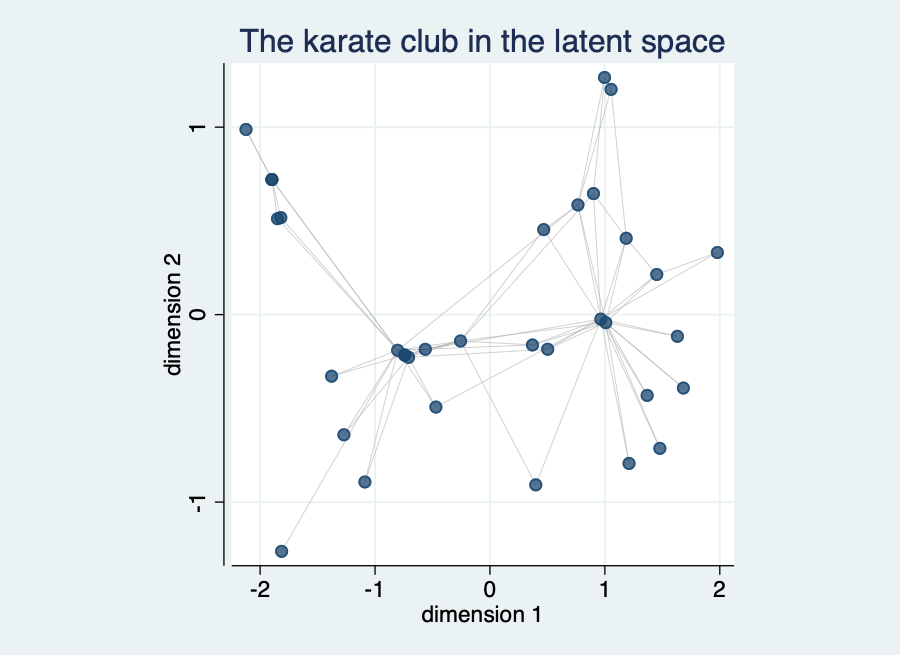
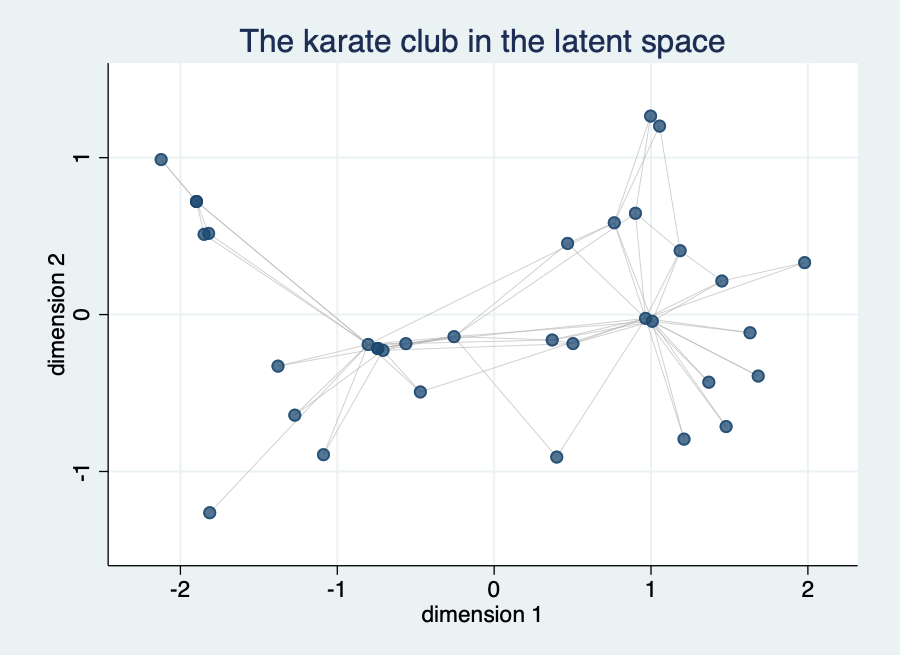
Website: nwlsm tutorials 1 and 2 regenerated with equal-scale plots (round circles); text mentions equal axes and noequal

diff --git a/website/nwlsm/tutorial-1-first-lsm/index.md b/website/nwlsm/tutorial-1-first-lsm/index.md
@@ -115,7 +115,7 @@ A table of coordinates is hard to read. `nwlsmplot` draws the same positions as 
 
 ![The karate club in the latent space: actors are points, ties are lines](karate_positions.png)
 
-Actors that are tied sit close together, and actors without ties in common lie far apart. Two actors, one in the middle left and one in the middle right, hold most of the ties, and the others lie around them. A few actors have exactly the same position in the table above because they have the same ties; they are drawn on top of each other. Read the map by distances only: turning or flipping it would change the axes and nothing else. The option `clusters` colours the actors by latent cluster once the model has been fitted with `clusters()` ([tutorial 2](../tutorial-2-bic-clusters/)).
+Actors that are tied sit close together, and actors without ties in common lie far apart. Two actors, one in the middle left and one in the middle right, hold most of the ties, and the others lie around them. A few actors have exactly the same position in the table above because they have the same ties; they are drawn on top of each other. Read the map by distances only: turning or flipping it would change the axes and nothing else. Both axes have the same scale (one unit is equally long horizontally and vertically), so distances can be read directly from the picture; `noequal` switches this off and lets each axis span its own range. The option `clusters` colours the actors by latent cluster once the model has been fitted with `clusters()` ([tutorial 2](../tutorial-2-bic-clusters/)).
 
 The map shows one point per actor, but each position is an estimate. The option `draws(#)` adds the uncertainty: it draws that many of the kept posterior draws of all positions, aligned to the minimum Kullback-Leibler positions, as small faint dots in the colour of the actors under the map:
 
@@ -126,7 +126,7 @@ The map shows one point per actor, but each position is an estimate. The option 
 
 ![The karate club with a faint cloud of 100 posterior draws of the positions behind the estimated positions](karate_draws.png)
 
-The estimated positions (the dark points, with the ties as thin lines) now sit in a small region in the middle of a much wider, faint cloud that reaches about 5 units from the centre in every direction. The cloud is the union of 100 draws for each of the 34 actors, so it shows how far a single actor could lie in the posterior. It is wide compared with the distances between the estimated positions: the map of the minimum Kullback-Leibler positions is a tidy summary, but the data do not pin down the position of an individual actor, and the finer arrangement within the groups should not be over-read. The draws stay in memory until the next fit; if you fit another model first, `draws()` stops with an error.
+The estimated positions (the dark points, with the ties as thin lines) now sit in a small region in the middle of a much wider, faint cloud that reaches about 5 units from the centre in every direction (both axes have the same scale, so the cloud is drawn undistorted). The cloud is the union of 100 draws for each of the 34 actors, so it shows how far a single actor could lie in the posterior. It is wide compared with the distances between the estimated positions: the map of the minimum Kullback-Leibler positions is a tidy summary, but the data do not pin down the position of an individual actor, and the finer arrangement within the groups should not be over-read. The draws stay in memory until the next fit; if you fit another model first, `draws()` stops with an error.
 
 ## Goodness of fit
 

diff --git a/website/nwlsm/tutorial-2-bic-clusters/index.md b/website/nwlsm/tutorial-2-bic-clusters/index.md
@@ -113,7 +113,7 @@ To see the clusters, draw the monks in the latent space with `nwlsmplot`; the op
 
 ![Sampson's monks in the latent space, coloured by cluster](monks_clusters.png)
 
-The three groups lie apart: seven monks in the lower left, seven on the right and a small group of four at the top. Ties run mostly inside each group, and the few ties between groups run through the space between them. The small group at the top is the faction of the outcasts, and one of its four monks lies between it and the rest. Only distances count on this map: the axes can be turned or flipped without changing the model.
+The three groups lie apart: seven monks in the lower left, seven on the right and a small group of four at the top. Ties run mostly inside each group, and the few ties between groups run through the space between them. The small group at the top is the faction of the outcasts, and one of its four monks lies between it and the rest. Only distances count on this map: the axes can be turned or flipped without changing the model. Both axes have the same scale, so distances can be read from the picture (`noequal` switches this off).
 
 The network is directed, so the ties are drawn as arrows from the sender to the receiver; this is the default for a directed network, and `noarrows` draws plain lines instead.
 
@@ -125,7 +125,7 @@ Three more options show what the clusters model estimates. `clustermeans` marks 
 
 ![Sampson's monks with the cluster circles and the certainty of the membership](monks_circles.png)
 
-Each cluster is surrounded by a dashed ellipse in its colour (the circles look like ellipses because the two axes have different scales). The three circles are of similar size, the one of the top cluster (the outcasts) the largest. Most monks are drawn in full colour; a few at the edge of their group, for example John Bosco and Hugh in the lower left cluster and Amand next to the outcasts, are paler, which agrees with the three monks below 0.8 in the table of probabilities that follows. The cluster means themselves are hard to see on this picture, because they lie at the centre of the groups under the monks.
+Each cluster is surrounded by a dashed circle in its colour, with a small cross at the cluster mean at its centre. Because both axes have the same scale the circles are round, and their radii can be compared with the distances between the monks. The three circles are of similar size, and the monks of each cluster lie mostly inside their own circle, the two monks Amand and Hugh near its edge. Most monks are drawn in full colour; a few at the edge of their group, for example John Bosco and Hugh in the lower left cluster and Amand next to the outcasts, are paler, which agrees with the three monks below 0.8 in the table of probabilities that follows.
 
 The three clusters of the model are the three factions, with no monk in the wrong place. The numbering of the clusters is arbitrary; only the grouping counts. The model has never seen the faction variable. How sure is it about each monk?
 
